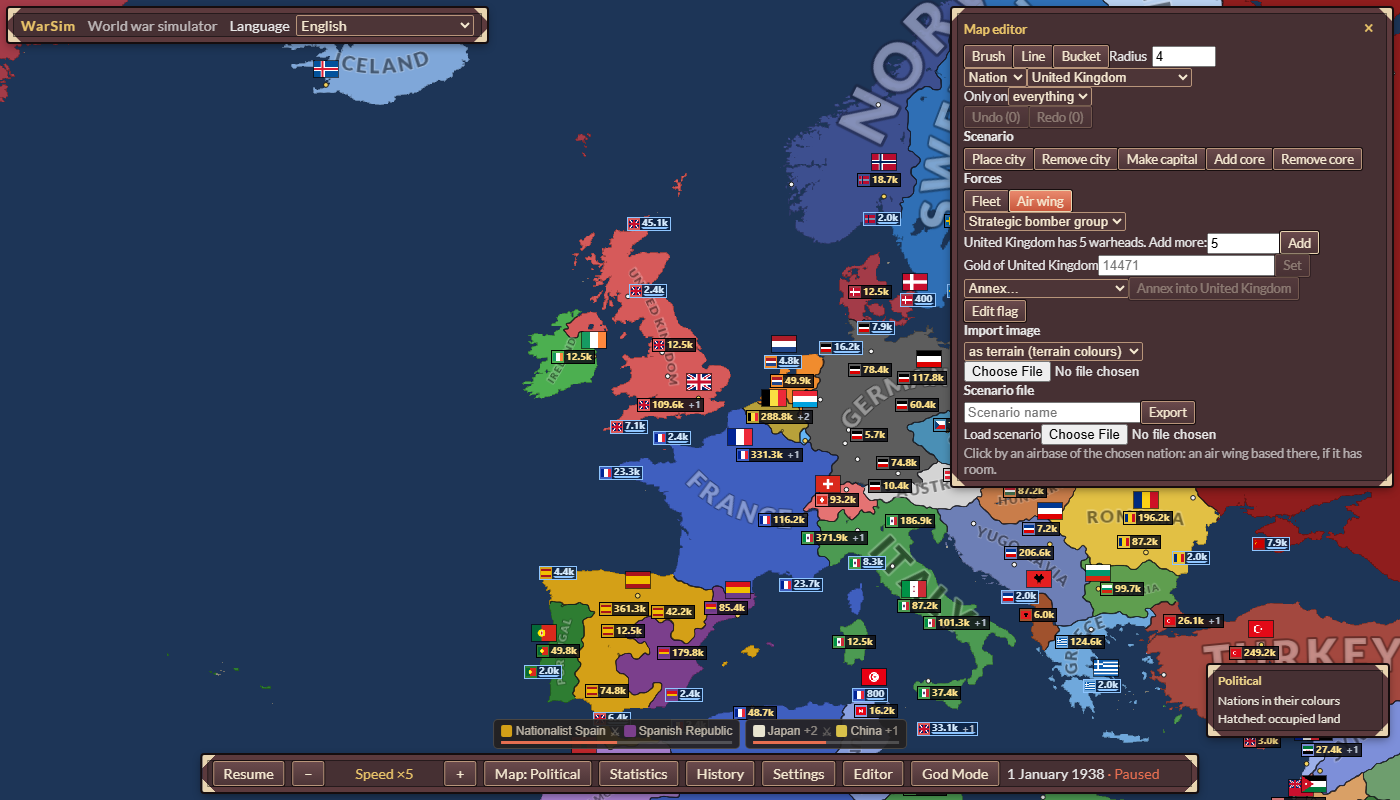
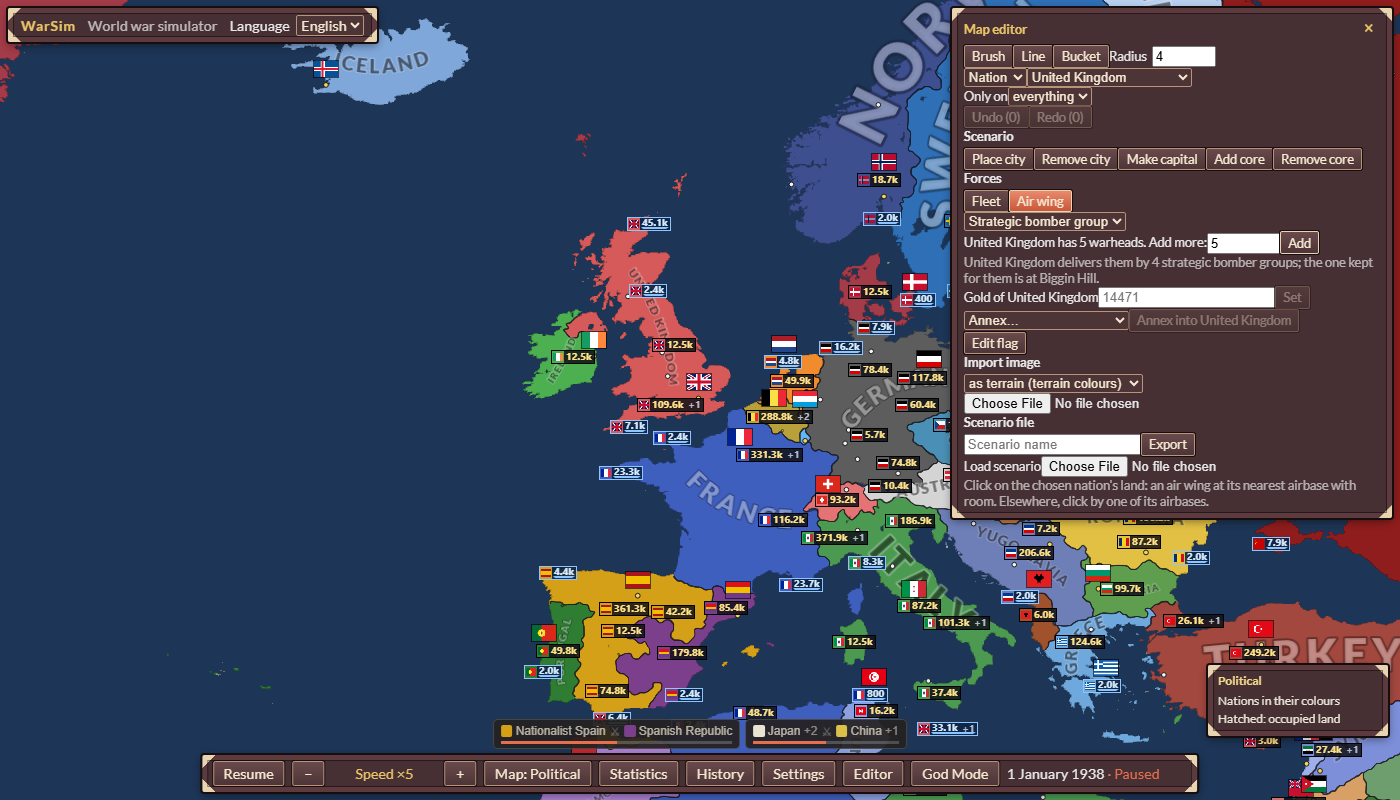
PLAN 7.37b2: the editor names a holder's means of delivery
Under "N warheads" the editor now says the strategic bomber groups and the
airbase of the one kept for them, or the missiles (deliveryMeans,
NationStat.means). The critic's Czechoslovakia reads its group at Prague.

Claude-Session: https://claude.ai/code/session_01FHc4Gn3XUfBwBVmrPUZKrR

Changed region(s): [[0.6757, 0.3125, 1.0, 0.6562], [0.2457, 0.0, 0.3686, 0.0625]]

diff --git a/tests/e2e/editorForces1938.spec.ts b/tests/e2e/editorForces1938.spec.ts
@@ -103,6 +103,31 @@ test('the editor places a fleet, an air wing and warheads; a shared scenario has
   expect(after).toEqual(placed);
 });
 
+// PLAN 7.37b2 (critic runs 9 and 10, `c10_g2_5309_CZS.json`: "the editor says only 'Czechoslovakia
+// has 10 warheads'"): Czechoslovakia given a strategic bomber group at Prague and 10 warheads. The
+// editor says how it would deliver them: the group, and Prague's airbase where it is kept.
+test("the editor names a holder's means: Czechoslovakia's bomber group at Prague (PLAN 7.37b2)", async ({ page }) => {
+  test.setTimeout(180_000);
+  await page.setViewportSize({ width: 1400, height: 800 });
+  await page.goto('/?scenario=1938&paused=1&seed=5309');
+  await ready(page);
+  const CZS = id('CZS');
+  await page.getByTestId('editor-btn').click();
+  await page.getByTestId('editor-nation').selectOption(String(CZS));
+  const before = await forces(page, CZS);
+  await page.getByTestId('editor-tool-wing').click();
+  await page.getByTestId('editor-template').selectOption({ label: 'Strategic bomber group' });
+  await centre(page, 14.42, 50.08);
+  await page.mouse.click(700, 400);
+  await expect.poll(async () => (await forces(page, CZS)).wings).toBe(before.wings + 1);
+  await page.getByTestId('editor-warheads').fill('10');
+  await page.getByTestId('editor-warheads-add').click();
+  await expect.poll(() => warheadsOf(page, CZS)).toBe(10);
+  await expect(page.getByTestId('editor-means')).toHaveText('Czechoslovakia delivers them by its strategic bomber group at Prague; while it holds a warhead that group is kept for them.');
+  await expect(page.getByTestId('editor-no-delivery')).toHaveCount(0);
+  await page.getByTestId('editor-panel').screenshot({ path: path.resolve('docs/evidence/7.37/b2-editor-means.png') });
+});
+
 // PLAN 7.22c (critic run 8, naval 6: "placed fleets wander away at once: the North Sea point was
 // empty on day 3", `critic/shots/c8g_5591_21_northsea_day3_30m.png`): the critic's standoff. Two
 // German and two British battle squadrons placed by clicks in the North Sea, the scenario exported

diff --git a/src/sim/systems/nuclear.ts b/src/sim/systems/nuclear.ts
@@ -265,6 +265,28 @@ export function canDeliver(world: World, n: number): boolean {
 }
 
 /**
+ * How `n` would deliver a warhead (PLAN 7.37b2, the critic's Czechoslovakia: the editor said only
+ * "10 warheads"): its strategic bomber groups with a base, the airbase of the one it keeps for them
+ * (`nuclearReserve`, else its lowest id; -1 for none), and whether it knows ballistic missiles. As
+ * `canDeliver` counts them, whether nuclear weapons are allowed it or not.
+ */
+export function deliveryMeans(world: World, n: number): { bombers: number; base: number; missiles: boolean } {
+  const c = world.formations.cols;
+  const rules = world.rules!;
+  let bombers = 0;
+  let first = 0;
+  for (const [id, base] of world.wingBase) {
+    if (base <= 0 || c.nation[id] !== n || !world.formations.has(id)) continue;
+    const el = rules.templates[c.template[id]!]?.elements[0];
+    if (!el || rules.units[el.unit]!.cls !== STRATEGIC) continue;
+    bombers++;
+    if (first === 0 || id < first) first = id;
+  }
+  const kept = nuclearReserve(world, n) || first;
+  return { bombers, base: kept === 0 ? -1 : world.wingBase.get(kept)! - 1, missiles: knows(world, n, 'ballistic_missiles') };
+}
+
+/**
  * The strategic bomber group `n` keeps for its warheads (PLAN 7.37a, ADR-561): while it holds one
  * it may use and has no missiles, its strategic bomber group of the lowest id with a base, which
  * the air AI sends on no raid of industry; 0 for none. The critic's France (seed 7127) and

diff --git a/src/worker/server.ts b/src/worker/server.ts
@@ -75,7 +75,7 @@ import { airOf, Domain, laneOf, seaOf, TILE, type World } from '../sim/world';
 import { airHolders } from '../sim/systems/airSuperiority';
 import type { AirZones } from '../sim/nav/airZones';
 import { BufferPool } from './pool';
-import { canDeliver, warheadsOf } from '../sim/systems/nuclear';
+import { canDeliver, deliveryMeans, warheadsOf } from '../sim/systems/nuclear';
 
 export type Post = (msg: FromWorker, transfer: Transferable[]) => void;
 
@@ -118,6 +118,12 @@ function falloutOf(world: World, n: number): number {
   let k = 0;
   for (const c of world.fallout.keys()) if (world.cells.owner[c] === n) k++;
   return k;
+}
+
+/** Nation `n`'s means of delivery as its panel and the editor read them (PLAN 7.37b2): the kept bomber's airbase by name. */
+function meansOf(world: World, n: number): { bombers: number; base: string | null; missiles: boolean } {
+  const m = deliveryMeans(world, n);
+  return { bombers: m.bombers, base: m.base >= 0 ? world.airbases[m.base]!.name : null, missiles: m.missiles };
 }
 
 export class SimServer {
@@ -853,6 +859,7 @@ export class SimServer {
         nukesAllowed: !world.nukesBanned.has(id),
         warheads: warheadsOf(world, id),
         canDeliver: canDeliver(world, id),
+        means: warheadsOf(world, id) > 0 ? meansOf(world, id) : null,
         aggression: nc.aggression[id]!,
         incomeMult: nc.incomeMult[id]!,
         living: nc.living[id] === 1,

diff --git a/src/ui/EditorPanel.tsx b/src/ui/EditorPanel.tsx
@@ -52,6 +52,14 @@ export interface EditorPanelProps {
   refusalBase?: RefusedBase | null | undefined;
 }
 
+/** How a holder of warheads would deliver them (PLAN 7.37b2): its missiles, its strategic bomber groups and where the one kept for them stands. */
+export function meansLine(name: string, m: NonNullable<NationStat['means']>): string {
+  const base = m.base ?? '';
+  if (m.missiles && m.bombers > 0) return t('editor.meansBoth', { name, count: m.bombers, base });
+  if (m.missiles) return t('editor.meansMissiles', { name });
+  return t(m.bombers === 1 ? 'editor.meansBombers.one' : 'editor.meansBombers', { name, count: m.bombers, base });
+}
+
 const LAND = TERRAIN_IDS.map((id, i) => [id, i] as const).filter(([, i]) => isLand(i));
 
 /**
@@ -215,6 +223,11 @@ export function EditorPanel({ state, nations, dead, undo, redo, lineStarted, onC
           <button type="button" class="god-btn" data-testid="editor-warheads-add" disabled={!(Number(warheads) >= 1)} onClick={() => onWarheads(me.id, Math.floor(Number(warheads)))}>
             {t('editor.add')}
           </button>
+        </div>
+      ) : null}
+      {me && me.warheads > 0 && me.canDeliver && me.means ? (
+        <div class="panel-note" data-testid="editor-means">
+          {meansLine(displayName(me.name), me.means)}
         </div>
       ) : null}
       {me && me.warheads > 0 && !me.canDeliver ? (

diff --git a/src/shared/protocol.ts b/src/shared/protocol.ts
@@ -567,6 +567,12 @@ export interface NationStat {
    * and a strategic bomber group at an airbase or ballistic missiles.
    */
   canDeliver: boolean;
+  /**
+   * Its means of delivery (PLAN 7.37b2, `deliveryMeans`), for a nation that holds a warhead (else
+   * null): its strategic bomber groups with a base, the name of the airbase of the one it keeps for
+   * its warheads (null for none), and whether it knows ballistic missiles.
+   */
+  means: { bombers: number; base: string | null; missiles: boolean } | null;
   /** AI aggression 0..100 and income multiplier from traits (PLAN 1.39b1 options). */
   aggression: number;
   incomeMult: number;

diff --git a/tests/unit/ranking.test.ts b/tests/unit/ranking.test.ts
@@ -36,6 +36,7 @@ const nation = (id: number, v: number): NationStat => ({
   nukesAllowed: true,
   warheads: v * 8,
   canDeliver: false,
+  means: null,
   queue: [],
   aggression: 50,
   incomeMult: 1,

diff --git a/PROGRESS.md b/PROGRESS.md
@@ -20384,3 +20384,17 @@ No rule changed and nothing on screen changed. One task came out of it.
 - **Waits on the user:** ADR-563 (a. restraint then means lost, recommended; b. "use it or lose
   it"; c. a fallen capital counted in the desperation). BLOCKERS entry. 7.37b2 and b3 go on.
 - 7.37's commits: 2 of 20. **Next:** PLAN 7.37b2 (the editor names the means).
+
+## 2026-10-20 — PLAN 7.37b2: the editor names a holder's means
+
+- **Change:** `deliveryMeans` (nuclear.ts) beside `canDeliver`: a holder's strategic bomber groups
+  with a base, the airbase of the one kept for its warheads (`nuclearReserve`, else the lowest id),
+  and its missiles; `NationStat.means` carries it (with the base's name) for a nation holding a
+  warhead; the editor's line under "N warheads" says it (`editor.means*`).
+- **AT:** Czechoslovakia (seed 5309), a strategic bomber group placed at Prague and 10 warheads:
+  "Czechoslovakia delivers them by its strategic bomber group at Prague; while it holds a warhead
+  that group is kept for them." (`editorForces1938.spec.ts`, red without: no such line;
+  `docs/evidence/7.37/b2-editor-means.png`; `7.13/a-editor-forces.png` re-shot, Britain's line in
+  it). No sim rule: the pin unchanged.
+- **Specs by hand, green:** editorForces1938 (4).
+- 7.37's commits: 3 of 20. **Next:** PLAN 7.37b3 (the game says when the last means is lost).

diff --git a/PLAN.md b/PLAN.md
@@ -95,10 +95,13 @@ each, split when taken up:
           day 19 with no means. AT: the measured cause in BLOCKERS and ADR-563 (proposed, the
           user's: a. restraint, then means lost, recommended; b. "use it or lose it"; c. a fallen
           capital counted in the desperation). Met.
-        - [ ] 7.37b2 The editor says a holder's means: its strategic bomber groups with a base (and
+        - [x] 7.37b2 The editor says a holder's means: its strategic bomber groups with a base (and
           the nearest's base) or its missiles, beside "N warheads". AT: a spec on the editor,
           Czechoslovakia given 10 warheads and a strategic bomber group at Prague, the line names
           the group and Prague (red without: "has 10 warheads" alone).
+          Met: "Czechoslovakia delivers them by its strategic bomber group at Prague; while it holds
+          a warhead that group is kept for them." (`editorForces1938.spec.ts`,
+          `docs/evidence/7.37/b2-editor-means.png`).
         - [ ] 7.37b3 The game says when a holder's last means is lost: an event and a history row
           the day `canDeliver` turns false while it holds a warhead it may use, with the cause
           (its last airbase taken, its group shot down). AT: a unit test on seed 5309's case, the
